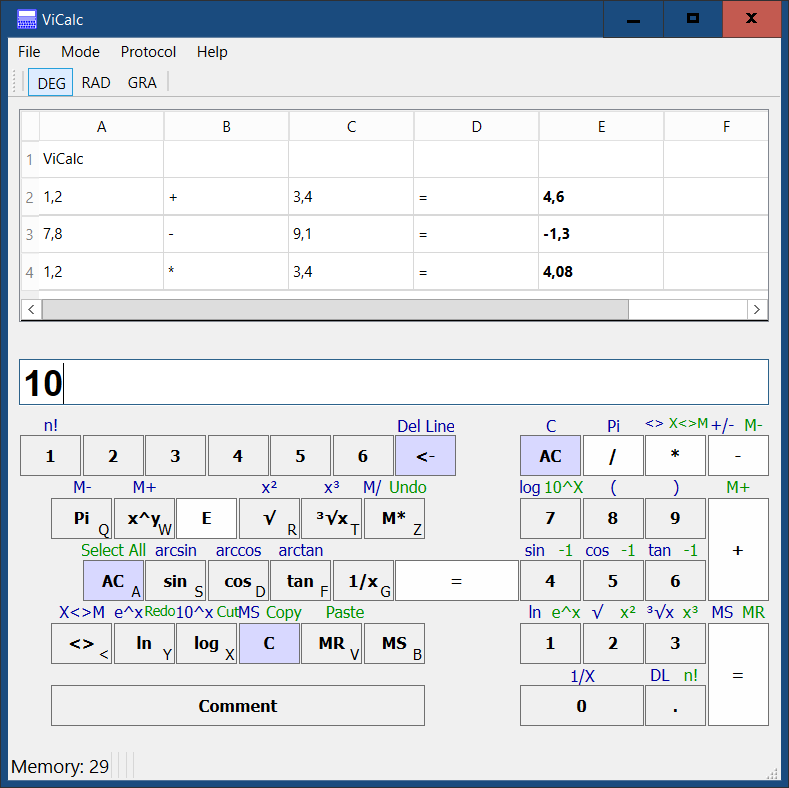
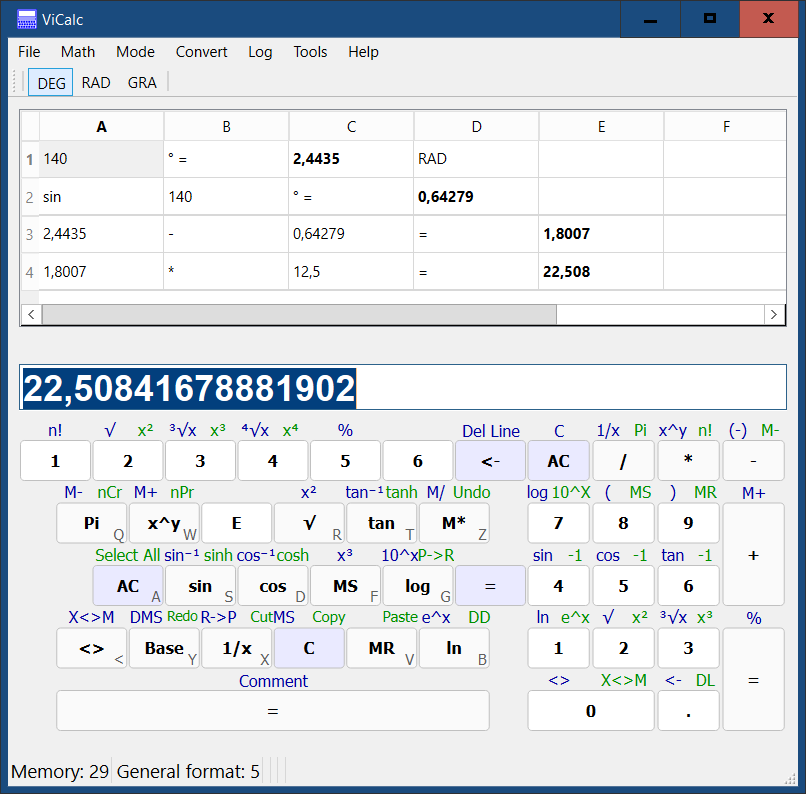
Minor GUI update

diff --git a/vicalc/vicalc.py b/vicalc/vicalc.py
@@ -40,8 +40,10 @@ class MainWindow(QMainWindow):
         self.trig_mode_group.addAction(self.ui.action_GRA)
 
         # background color of C and AC buttons
-        self.c_ac_bg_color = QColor("#D8D8FF")
-        self.arithmetic_operation_color = QColor("#FEFEFE")
+        self.c_ac_bg_color = QColor("#EAEAFF")
+        #self.arithmetic_operation_color = QColor("#FEFEFE")
+        self.arithmetic_operation_color = QColor("#FAFAFA")
+        self.number_key_color = QColor("#FFFFFF")
 
         AppGlobals.table = self.ui.tableWidget
         AppGlobals.input_box = self.ui.inputTextEdit
@@ -113,6 +115,7 @@ class MainWindow(QMainWindow):
         self.ui.pushButton0numpad.row = 4
         self.ui.pushButton0numpad.column = 0
         self.ui.pushButton0numpad.norm_width = 2
+        self.ui.pushButton0numpad.bg_color = self.number_key_color
         self.ui.pushButton0numpad.shift_text = "<>"
         self.ui.pushButton0numpad.ctrl_text = "X<>M"
         self.ui.pushButton0numpad.base_operation = CalcOperations.number_0
@@ -122,6 +125,7 @@ class MainWindow(QMainWindow):
 
         self.ui.pushButton1numpad.row = 3
         self.ui.pushButton1numpad.column = 0
+        self.ui.pushButton1numpad.bg_color = self.number_key_color
         self.ui.pushButton1numpad.shift_text = "ln"
         self.ui.pushButton1numpad.ctrl_text = "e^x"
         self.ui.pushButton1numpad.base_operation = CalcOperations.number_1
@@ -131,6 +135,7 @@ class MainWindow(QMainWindow):
 
         self.ui.pushButton2numpad.row = 3
         self.ui.pushButton2numpad.column = 1
+        self.ui.pushButton2numpad.bg_color = self.number_key_color
         self.ui.pushButton2numpad.shift_text = "√"
         self.ui.pushButton2numpad.ctrl_text = "x²"
         self.ui.pushButton2numpad.base_operation = CalcOperations.number_2
@@ -140,6 +145,7 @@ class MainWindow(QMainWindow):
 
         self.ui.pushButton3numpad.row = 3
         self.ui.pushButton3numpad.column = 2
+        self.ui.pushButton3numpad.bg_color = self.number_key_color
         self.ui.pushButton3numpad.shift_text = "³√x"
         self.ui.pushButton3numpad.ctrl_text = "x³"
         self.ui.pushButton3numpad.base_operation = CalcOperations.number_3
@@ -149,6 +155,7 @@ class MainWindow(QMainWindow):
 
         self.ui.pushButton4numpad.row = 2
         self.ui.pushButton4numpad.column = 0
+        self.ui.pushButton4numpad.bg_color = self.number_key_color
         self.ui.pushButton4numpad.shift_text = "sin"
         self.ui.pushButton4numpad.ctrl_text = "-1"
         self.ui.pushButton4numpad.base_operation = CalcOperations.number_4
@@ -158,6 +165,7 @@ class MainWindow(QMainWindow):
 
         self.ui.pushButton5numpad.row = 2
         self.ui.pushButton5numpad.column = 1
+        self.ui.pushButton5numpad.bg_color = self.number_key_color
         self.ui.pushButton5numpad.shift_text = "cos"
         self.ui.pushButton5numpad.ctrl_text = "-1"
         self.ui.pushButton5numpad.base_operation = CalcOperations.number_5
@@ -167,6 +175,7 @@ class MainWindow(QMainWindow):
 
         self.ui.pushButton6numpad.row = 2
         self.ui.pushButton6numpad.column = 2
+        self.ui.pushButton6numpad.bg_color = self.number_key_color
         self.ui.pushButton6numpad.shift_text = "tan"
         self.ui.pushButton6numpad.ctrl_text = "-1"
         self.ui.pushButton6numpad.base_operation = CalcOperations.number_6
@@ -176,6 +185,7 @@ class MainWindow(QMainWindow):
 
         self.ui.pushButton7numpad.row = 1
         self.ui.pushButton7numpad.column = 0
+        self.ui.pushButton7numpad.bg_color = self.number_key_color
         self.ui.pushButton7numpad.shift_text = "log"
         self.ui.pushButton7numpad.shift_text_alignment = Qt.AlignLeft
         self.ui.pushButton7numpad.ctrl_text = "10^X"
@@ -187,6 +197,7 @@ class MainWindow(QMainWindow):
 
         self.ui.pushButton8numpad.row = 1
         self.ui.pushButton8numpad.column = 1
+        self.ui.pushButton8numpad.bg_color = self.number_key_color
         self.ui.pushButton8numpad.shift_text = "("
         self.ui.pushButton8numpad.ctrl_text = "MS"
         self.ui.pushButton8numpad.base_operation = CalcOperations.number_8
@@ -196,6 +207,7 @@ class MainWindow(QMainWindow):
 
         self.ui.pushButton9numpad.row = 1
         self.ui.pushButton9numpad.column = 2
+        self.ui.pushButton9numpad.bg_color = self.number_key_color
         self.ui.pushButton9numpad.shift_text = ")"
         self.ui.pushButton9numpad.ctrl_text = "MR"
         self.ui.pushButton9numpad.base_operation = CalcOperations.number_9
@@ -226,6 +238,7 @@ class MainWindow(QMainWindow):
 
         self.ui.pushButtonCommaNumpad.row = 4
         self.ui.pushButtonCommaNumpad.column = 2
+        self.ui.pushButtonCommaNumpad.bg_color = self.number_key_color
         self.ui.pushButtonCommaNumpad.shift_text = "<-"
         self.ui.pushButtonCommaNumpad.ctrl_text = "DL"
         self.ui.pushButtonCommaNumpad.base_operation = CalcOperations.comma
@@ -246,7 +259,7 @@ class MainWindow(QMainWindow):
         self.ui.pushButtonEnter.row = 2
         self.ui.pushButtonEnter.column = 6
 #        self.ui.pushButtonEnter.norm_width = 1
-        self.ui.pushButtonEnter.bg_color = self.arithmetic_operation_color
+        self.ui.pushButtonEnter.bg_color = self.c_ac_bg_color
 #        self.ui.pushButtonEnter.shift_text = "MS"
 #        self.ui.pushButtonEnter.ctrl_text = "MR"
         self.ui.pushButtonEnter.base_operation = CalcOperations.calculate
@@ -736,13 +749,21 @@ class MainWindow(QMainWindow):
         if AppGlobals.input_box.hasFocus():
             AppGlobals.table.setFocus()
             if -1 != AppGlobals.current_row and -1 != AppGlobals.current_column:
-                AppGlobals.table.setCurrentCell(AppGlobals.current_row, AppGlobals.current_column)
+                row_count = AppGlobals.table.rowCount()
+                column_count = AppGlobals.table.columnCount()
+                if AppGlobals.current_row < row_count and AppGlobals.current_column < column_count:
+                    AppGlobals.table.setCurrentCell(AppGlobals.current_row, AppGlobals.current_column)
+                else:
+                    self.go_to_last_row_last_non_empty_col()
+            else:
+                self.go_to_last_row_last_non_empty_col()
         else:
             AppGlobals.input_box.setFocus()
 
     def numbers_row_keyboard(self):
         self.ui.pushButton1.row = 0
         self.ui.pushButton1.column = 0
+        self.ui.pushButton1.bg_color = self.number_key_color
         self.ui.pushButton1.shift_text = "n!"
         self.ui.pushButton1.ctrl_text = ""
         self.ui.pushButton1.base_operation = CalcOperations.number_1
@@ -752,6 +773,7 @@ class MainWindow(QMainWindow):
 
         self.ui.pushButton2.row = 0
         self.ui.pushButton2.column = 1
+        self.ui.pushButton2.bg_color = self.number_key_color
         self.ui.pushButton2.shift_text = "√"
         self.ui.pushButton2.ctrl_text = "x²"
         self.ui.pushButton2.base_operation = CalcOperations.number_2
@@ -761,6 +783,7 @@ class MainWindow(QMainWindow):
 
         self.ui.pushButton3.row = 0
         self.ui.pushButton3.column = 2
+        self.ui.pushButton3.bg_color = self.number_key_color
         self.ui.pushButton3.shift_text = "³√x"
         self.ui.pushButton3.ctrl_text = "x³"
         self.ui.pushButton3.base_operation = CalcOperations.number_3
@@ -770,6 +793,7 @@ class MainWindow(QMainWindow):
 
         self.ui.pushButton4.row = 0
         self.ui.pushButton4.column = 3
+        self.ui.pushButton4.bg_color = self.number_key_color
         self.ui.pushButton4.shift_text = "⁴√x"
         self.ui.pushButton4.ctrl_text = "x⁴"
         self.ui.pushButton4.base_operation = CalcOperations.number_4
@@ -779,8 +803,8 @@ class MainWindow(QMainWindow):
 
         self.ui.pushButton5.row = 0
         self.ui.pushButton5.column = 4
+        self.ui.pushButton5.bg_color = self.number_key_color
         self.ui.pushButton5.shift_text = "%"
-        #self.ui.pushButton5.ctrl_text = "n!"
         self.ui.pushButton5.base_operation = CalcOperations.number_5
         self.ui.pushButton5.shift_operation = CalcOperations.percent
         self.ui.pushButton5.ctrl_operation = CalcOperations.percent
@@ -788,8 +812,7 @@ class MainWindow(QMainWindow):
 
         self.ui.pushButton6.row = 0
         self.ui.pushButton6.column = 5
-        #self.ui.pushButton6.shift_text = "n!"
-        #self.ui.pushButton6.ctrl_text = "n!"
+        self.ui.pushButton6.bg_color = self.number_key_color
         self.ui.pushButton6.base_operation = CalcOperations.number_6
         self.ui.pushButton6.shift_operation = CalcOperations.number_6
         self.ui.pushButton6.ctrl_operation = CalcOperations.number_6
@@ -821,7 +844,7 @@ class MainWindow(QMainWindow):
         self.ui.pushButtonE.row = 1
         self.ui.pushButtonE.column = 2.5
         # special key exponent have other bg color
-        self.ui.pushButtonE.bg_color = self.arithmetic_operation_color
+        self.ui.pushButtonE.bg_color = self.number_key_color
         #self.ui.pushButtonE.shift_text = "n!"
         #self.ui.pushButtonE.ctrl_text = "n!"
         self.ui.pushButtonE.base_operation = CalcOperations.exponent
@@ -1094,6 +1117,30 @@ class MainWindow(QMainWindow):
 
     def fourth_power(self):
         AppGlobals.input_box.exec_fourth_power()
+
+    def go_to_last_row_last_non_empty_col(self):
+        row_count = AppGlobals.table.rowCount()
+        col_count = AppGlobals.table.columnCount()
+
+        if row_count == 0 or col_count == 0:
+            return  # Nothing to do
+
+        last_row = row_count - 1
+
+        # Find last non-empty column in the last row
+        last_non_empty_col = -1
+        for col in reversed(range(col_count)):
+            item = AppGlobals.table.item(last_row, col)
+            if item and item.text().strip() != "":
+                last_non_empty_col = col
+                break
+
+        if last_non_empty_col == -1:
+            print("No non-empty column found in last row.")
+            return
+
+        # Set current cell (will highlight/select it)
+        AppGlobals.table.setCurrentCell(last_row, last_non_empty_col)
 
 # main
 def main():

diff --git a/vicalc/ui/CalcButton.py b/vicalc/ui/CalcButton.py
@@ -22,7 +22,9 @@ class CalcButton(QPushButton):
         self.mouse_pos = None
         self.setMouseTracking(True)  # needed to get mouseMoveEvent without clicking
 
-        self.bg_color = None # background color for special cases like C and AC buttons
+        self.bg_color = QColor("#FAFAFA") # background color for special cases like C and AC buttons
+
+        self.corner_radius = 3 # button corner radius
 
         # default text alignment, if it differs from this, then use instead
         # only shift or ctrl rect both of them shift_and_ctrl_rect
@@ -81,14 +83,14 @@ class CalcButton(QPushButton):
 
     def paintEvent(self, event: QPaintEvent):
         painter = QPainter(self)
-        # painter.setRenderHint(QPainter.Antialiasing) # Keep anti-aliasing for smooth lines
+        painter.setRenderHint(QPainter.Antialiasing) # Keep anti-aliasing for smooth lines
         painter.save()
 
         # self.pixmap = QPixmap('ui/img/cube_root.png')
         # painter.drawPixmap(0, 0, self.pixmap)
 
         # Manual drawing of the button's background based on state
-        current_bg_color = QColor("#DDDDDD") # Default background color
+        current_bg_color = QColor("#F9F9F9") # Default background color
         bg_rect = self.rect().adjusted(0, self.height_shift_area, -1, -1)
 
         if self.isDown(): # Button is currently pressed
@@ -104,33 +106,20 @@ class CalcButton(QPushButton):
                 if ((len(self.shift_text) == 0 or len(self.ctrl_text) == 0) and
                     self.mouse_pos != None and self.shift_and_ctrl_rect().contains(self.mouse_pos)):
                     # one of texts is empty, use the whole rect
-                    painter.drawRoundedRect(self.shift_and_ctrl_rect(), 6, 6)
+                    painter.drawRoundedRect(self.shift_and_ctrl_rect(), self.corner_radius, self.corner_radius)
                 elif (self.mouse_pos != None and self.shift_rect().contains(self.mouse_pos)):
-                    painter.drawRoundedRect(self.shift_rect(), 6, 6)
+                    painter.drawRoundedRect(self.shift_rect(), self.corner_radius, self.corner_radius)
                 elif (self.mouse_pos != None and self.ctrl_rect().contains(self.mouse_pos)):
-                    painter.drawRoundedRect(self.ctrl_rect(), 6, 6)
+                    painter.drawRoundedRect(self.ctrl_rect(), self.corner_radius, self.corner_radius)
                 else:
-                    painter.fillRect(bg_rect, current_bg_color)
+#                    painter.fillRect(bg_rect, current_bg_color)
+                    painter.drawRoundedRect(bg_rect, self.corner_radius, self.corner_radius)
             else:
                 # shift and ctrl text is equal
                 if (self.mouse_pos != None and self.shift_and_ctrl_rect().contains(self.mouse_pos)):
-                    painter.drawRoundedRect(self.shift_and_ctrl_rect(), 6, 6)
+                    painter.drawRoundedRect(self.shift_and_ctrl_rect(), self.corner_radius, self.corner_radius)
                 else:
                     painter.fillRect(bg_rect, current_bg_color)
-
-            """
-            if self.mouse_pos.y() < self.height_shift_area: # mouse in shift/ctrl area
-                if self.mouse_pos.x() < bg_rect.width() / 2:
-                    bg_rect = QRect(0, 0, self.rect().width() / 2, self.height_shift_area)
-                else:
-                    bg_rect = QRect(self.rect().width() / 2, 0, self.rect().width() / 2, self.height_shift_area)
-
-                painter.setBrush(current_bg_color)
-                painter.setPen(Qt.NoPen)
-                painter.drawRoundedRect(bg_rect, 6, 6)
-            else:
-                painter.fillRect(bg_rect, current_bg_color)
-            """
 
         if self.shift_text != self.ctrl_text:
             # shift and ctrl text is different, draw both texts
@@ -200,22 +189,23 @@ class CalcButton(QPushButton):
 
         if self.underMouse():
             # draw background
-            painter.setPen(QPen(QColor("#707070"), 0, Qt.SolidLine))
+            painter.setPen(QPen(QColor("#C0C0C0"), 0, Qt.SolidLine))
             if (self.bg_color == None):
                 painter.setBrush(Qt.NoBrush) # Ensures only the outline is drawn
             else:
                 # mouse over shift and ctrl, set base background
                 if (self.mouse_pos != None and self.shift_and_ctrl_rect().contains(self.mouse_pos)):
                     painter.setBrush(QColor(self.bg_color))
-            painter.drawRect(rectangle_to_draw) # Draws the complete rectangle outline
+            painter.drawRoundedRect(rectangle_to_draw, self.corner_radius, self.corner_radius) # Draws the complete rectangle outline
         else:
             # draw background
-            painter.setPen(QPen(QColor("#707070"), 0, Qt.SolidLine))
+#            painter.setPen(QPen(QColor("#707070"), 0, Qt.SolidLine))
+            painter.setPen(QPen(QColor("#C0C0C0"), 0, Qt.SolidLine))
             if (self.bg_color == None):
                 painter.setBrush(Qt.NoBrush) # Ensures only the outline is drawn
             else:
                 painter.setBrush(QColor(self.bg_color))
-            painter.drawRect(rectangle_to_draw) # Draws the complete rectangle outline
+            painter.drawRoundedRect(rectangle_to_draw, self.corner_radius, self.corner_radius) # Draws the complete rectangle outline
 
         # Draw the main centered text
         if (self._shift == False and self._ctrl == False):

diff --git a/vicalc/ui/about_dialog.py b/vicalc/ui/about_dialog.py
@@ -56,7 +56,7 @@ class Ui_AboutDialog(object):
 "</style></head><body style=\" font-family:'Segoe UI'; font-size:9pt; font-weight:400; font-style:normal;\">\n"
 "<p style=\" margin-top:0px; margin-bottom:0px; margin-left:0px; margin-right:0px; -qt-block-indent:0; text-indent:0px;\"><span style=\" font-weight:700;\">ViCalc</span></p>\n"
 "<p style=\"-qt-paragraph-type:empty; margin-top:0px; margin-bottom:0px; margin-left:0px; margin-right:0px; -qt-block-indent:0; text-indent:0px; font-weight:700;\"><br /></p>\n"
-"<p style=\" margin-top:0px; margin-bottom:0px; margin-left:0px; margin-right:0px; -qt-block-indent:0; text-indent:0px;\">Version 0.4.11.20 (Pre-release)</p>\n"
+"<p style=\" margin-top:0px; margin-bottom:0px; margin-left:0px; margin-right:0px; -qt-block-indent:0; text-indent:0px;\">Version 0.4.11.21 (Pre-release)</p>\n"
 "<p style="
                         "\"-qt-paragraph-type:empty; margin-top:0px; margin-bottom:0px; margin-left:0px; margin-right:0px; -qt-block-indent:0; text-indent:0px;\"><br /></p>\n"
 "<p style=\" margin-top:0px; margin-bottom:0px; margin-left:0px; margin-right:0px; -qt-block-indent:0; text-indent:0px;\">ViCalc is an open-source scientific ten-finger calculator with output recording capabilities.</p>\n"

diff --git a/vicalc/AngleUnit.py b/vicalc/AngleUnit.py
@@ -4,6 +4,7 @@ from PySide6.QtCore import QLocale
 from PySide6.QtGui import QFont
 from PySide6.QtWidgets import QTableWidgetItem
 from .AppGlobals import AppGlobals
+from .ResultCellValue import ResultCellValue
 
 class AngleUnit(ABC):
     def __init__(self):
@@ -13,7 +14,7 @@ class AngleUnit(ABC):
         self.row = None
 
     def toString(self, number:float):
-        return self.locale.toString(number, "g", 16)
+        return AppGlobals.to_format_string(number)
     
     @abstractmethod
     def to_deg(self, a:float):
@@ -53,10 +54,7 @@ class AngleUnit(ABC):
         AppGlobals.table.scrollToBottom()
 
     def protocol_result(self, result: float, column_number: int):
-        item = QTableWidgetItem(self.toString(result))
-        item.setFont(self.resultFont)
-        AppGlobals.table.setItem(self.row, column_number, item)
-        AppGlobals.table.setCurrentCell(self.row, column_number)
+        ResultCellValue(result, self.row, column_number) 
 
     @singledispatchmethod
     def protocol(self, arg, column_number):
